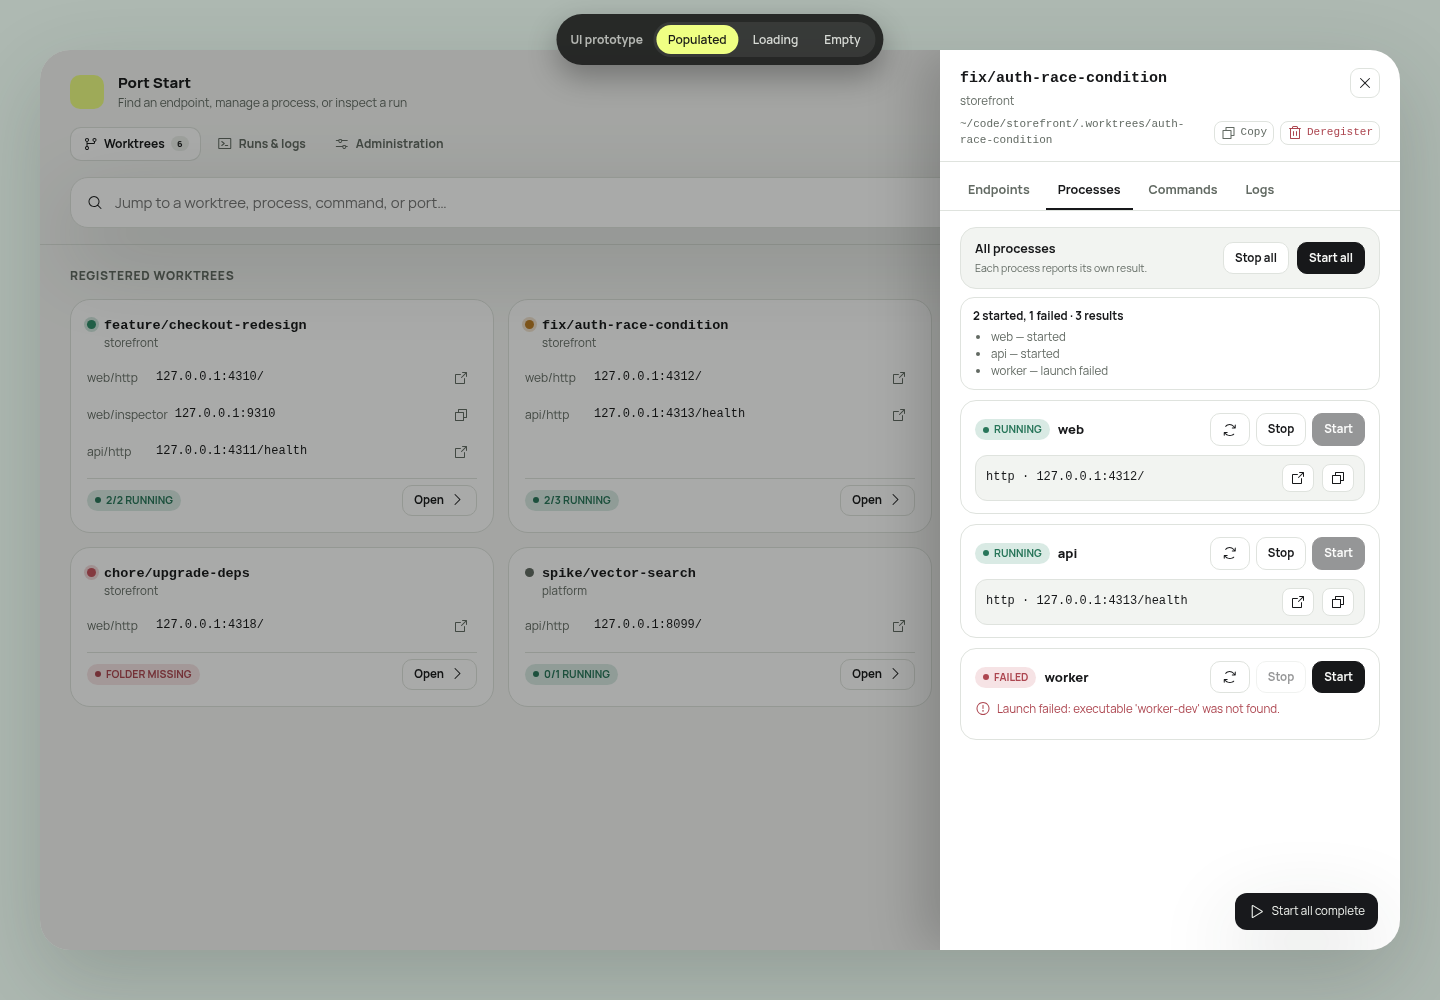
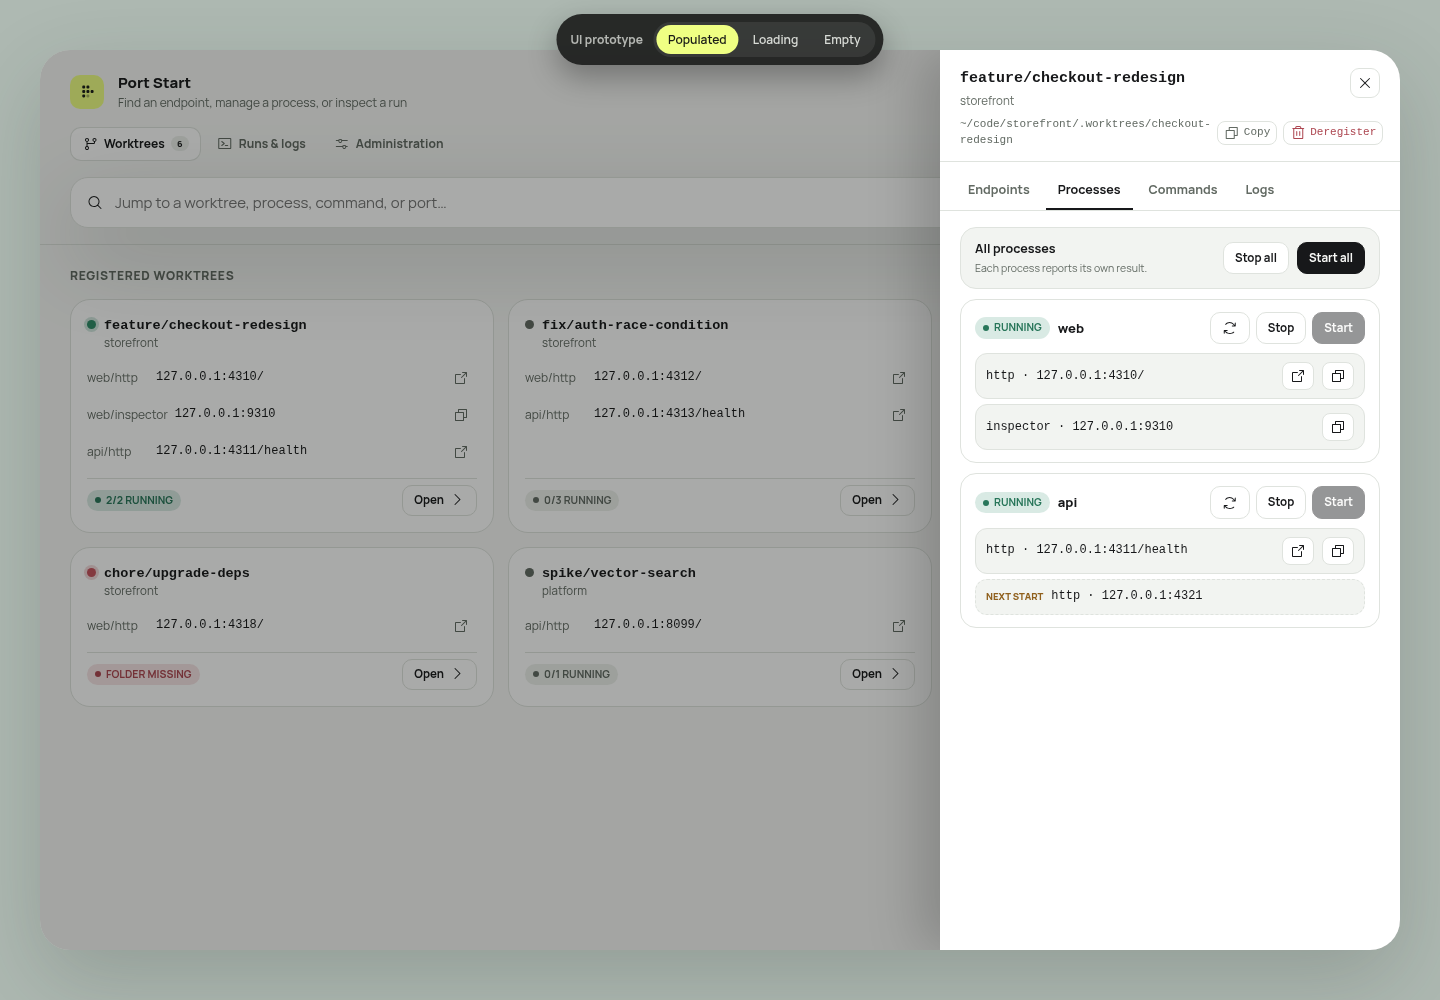
fix: clarify worktree states and focus

diff --git a/prototype/index.html b/prototype/index.html
@@ -45,7 +45,11 @@
   body { margin: 0; background: var(--canvas); color: var(--ink); font-family: var(--font); font-size: 14px; line-height: 1.45; -webkit-font-smoothing: antialiased; display: grid; place-items: center; padding: 22px; }
   button, input, select, textarea { font: inherit; color: inherit; }
   button { cursor: pointer; }
-  button:focus-visible, input:focus-visible, select:focus-visible, textarea:focus-visible, a:focus-visible { outline: 3px solid color-mix(in srgb, var(--acid) 70%, var(--ink)); outline-offset: 2px; }
+  button:focus-visible, input:focus-visible, select:focus-visible, textarea:focus-visible, a:focus-visible,
+  .proc-item:focus-visible, .cmd-item:focus-visible, .cmd-run:focus-visible {
+    outline: 3px solid color-mix(in srgb, var(--acid) 70%, var(--ink));
+    outline-offset: 2px;
+  }
   button[disabled] { opacity: .45; cursor: not-allowed; }
   .mono { font-family: var(--mono); }
   .muted { color: var(--muted); }
@@ -128,6 +132,8 @@
   .tile-foot { margin-top: auto; display: flex; align-items: center; gap: 8px; padding-top: 6px; border-top: 1px solid var(--line); }
   .tile-foot .pill { font-size: 10.5px; font-weight: 700; padding: 3px 8px; border-radius: 999px; text-transform: uppercase; }
   .tile-foot .pill.running { color: var(--badge-good-ink); background: color-mix(in srgb, var(--good) 18%, transparent); }
+  .tile-foot .pill.mixed { color: var(--badge-warning-ink); background: color-mix(in srgb, var(--warning) 18%, transparent); }
+  .tile-foot .pill.stopped { color: var(--muted); background: var(--surface-soft); }
   .tile-foot .pill.stale { color: var(--badge-danger-ink); background: color-mix(in srgb, var(--danger) 16%, transparent); }
   .tile-foot .view-btn { margin-left: auto; border: 1px solid var(--line); background: var(--surface); border-radius: 10px; padding: 6px 11px; font-size: 11.5px; font-weight: 700; display: inline-flex; align-items: center; gap: 5px; }
   .tile-foot .view-btn:hover { background: var(--surface-soft); }
@@ -620,10 +626,13 @@
   }
   function wtStatusDot(w) {
     if (w.status === 'missing') return 'stale';
-    const running = w.processes.some(p => p.state === 'running' || p.state === 'starting');
-    const stopped = w.processes.some(p => p.state === 'stopped' || p.state === 'failed');
-    if (running && stopped) return 'mixed';
-    return running ? 'running' : 'stopped';
+    const running = w.processes.filter(p => p.state === 'running').length;
+    const active = w.processes.filter(p =>
+      p.state === 'running' || p.state === 'starting'
+    ).length;
+    if (w.processes.length > 0 && running === w.processes.length) return 'running';
+    if (active === 0) return 'stopped';
+    return 'mixed';
   }
 
   let uiState = 'populated';
@@ -775,7 +784,7 @@
             </div>`).join('') : `<div class="none-declared">No declared ports</div>`}
         </div>
         <div class="tile-foot">
-          ${w.status === 'missing' ? `<span class="pill stale">Folder missing</span>` : `<span class="pill running">${w.processes.filter(p=>p.state==='running').length}/${w.processes.length} running</span>`}
+          ${w.status === 'missing' ? `<span class="pill stale">Folder missing</span>` : `<span class="pill ${dot}">${w.processes.filter(p=>p.state==='running').length}/${w.processes.length} running</span>`}
           <button class="view-btn" data-open="${w.id}" aria-label="Open ${esc(w.branch)} details">Open ${icon('caret-right')}</button>
         </div>
       </article>`;

diff --git a/design-qa.md b/design-qa.md
@@ -126,6 +126,13 @@ without changing its visual hierarchy.
     Machine-readable process and command inventories retain worktree identity
     on every record, the obsolete social card is no longer packaged, and all
     visual comparison evidence is retained in the repository.
+20. Dashboard badges now distinguish fully running, partially active, and
+    stopped worktrees instead of giving every registered worktree a success
+    treatment. Programmatic process, command, and invocation focus fallbacks
+    use the same three-pixel high-contrast indicator as interactive controls.
+    Browser assertions cover the three badge states and the computed focus
+    indicator after Start, Stop, and Cancel; the dashboard and drawer captures
+    were refreshed at 1440 × 1000.
 
 ## Verification
 
